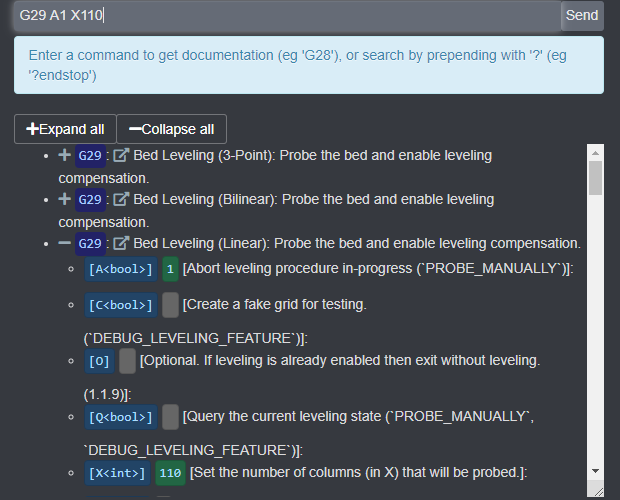
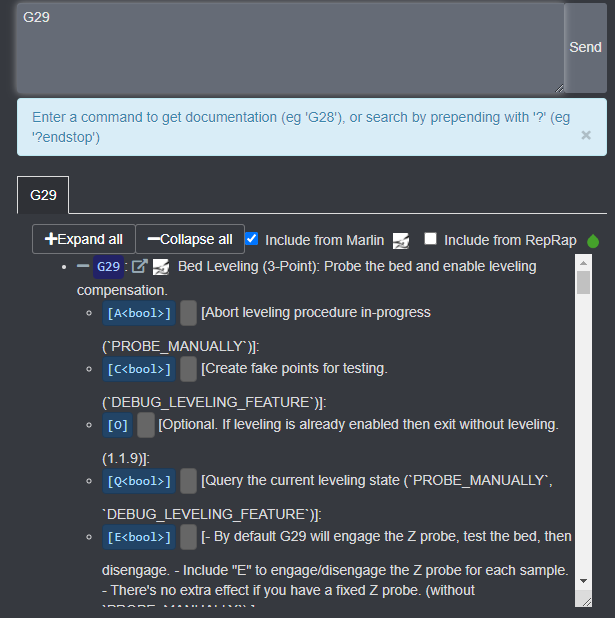
Bump version to 0.10.0
* Add RepRap documentation
* Add ability to position the documentation
* Add ability to hide the help

diff --git a/octoprint_marlingcodedocumentation/static/css/marlingcodedocumentation.css b/octoprint_marlingcodedocumentation/static/css/marlingcodedocumentation.css
@@ -1,3 +1,8 @@
+.terminal-marlin-gcode-documentation {
+    margin-top: 0.5em;
+    margin-bottom: 0.5em;
+}
+
 .terminal-documentation-results {
     overflow-y: auto;
     resize: vertical;

diff --git a/setup.py b/setup.py
@@ -14,7 +14,7 @@ plugin_package = "octoprint_marlingcodedocumentation"
 plugin_name = "Marlin GCode Documentation"
 
 # The plugin's version. Can be overwritten within OctoPrint's internal data via __plugin_version__ in the plugin module
-plugin_version = "0.9.2"
+plugin_version = "0.10.0"
 
 # The plugin's description. Can be overwritten within OctoPrint's internal data via __plugin_description__ in the plugin
 # module

diff --git a/extras/marlingcodedocumentation.md b/extras/marlingcodedocumentation.md
@@ -3,7 +3,7 @@ layout: plugin
 
 id: marlingcodedocumentation
 title: MarlinGcodeDocumentation
-description: Provides documentation for Marlin GCode commands in the Terminal tab
+description: Provides documentation for Marlin & RepRap GCode commands in the Terminal tab
 author: Costas Basdekis
 license: AGPLv3
 
@@ -39,8 +39,14 @@ compatibility:
 
 ---
 
-It displays GCode documentation for Marlin in the terminal command line.
+It displays GCode documentation for Marlin & RepRap in the terminal command line.
 
 Type a command and you will get explanation for the command and the parameters.
 
 Type '?' and some terms and you'll be shown commands that reference those terms.
+
+Features:
+* Commands from [Marlin](https://marlinfw.org/meta/gcode/) & [RepRap](https://reprap.org/wiki/G-code#G-commands) official documentations
+* Support for search by prepending `?`
+* Support for [Multiline Terminal plugin](https://plugins.octoprint.org/plugins/multilineterminal/)
+
